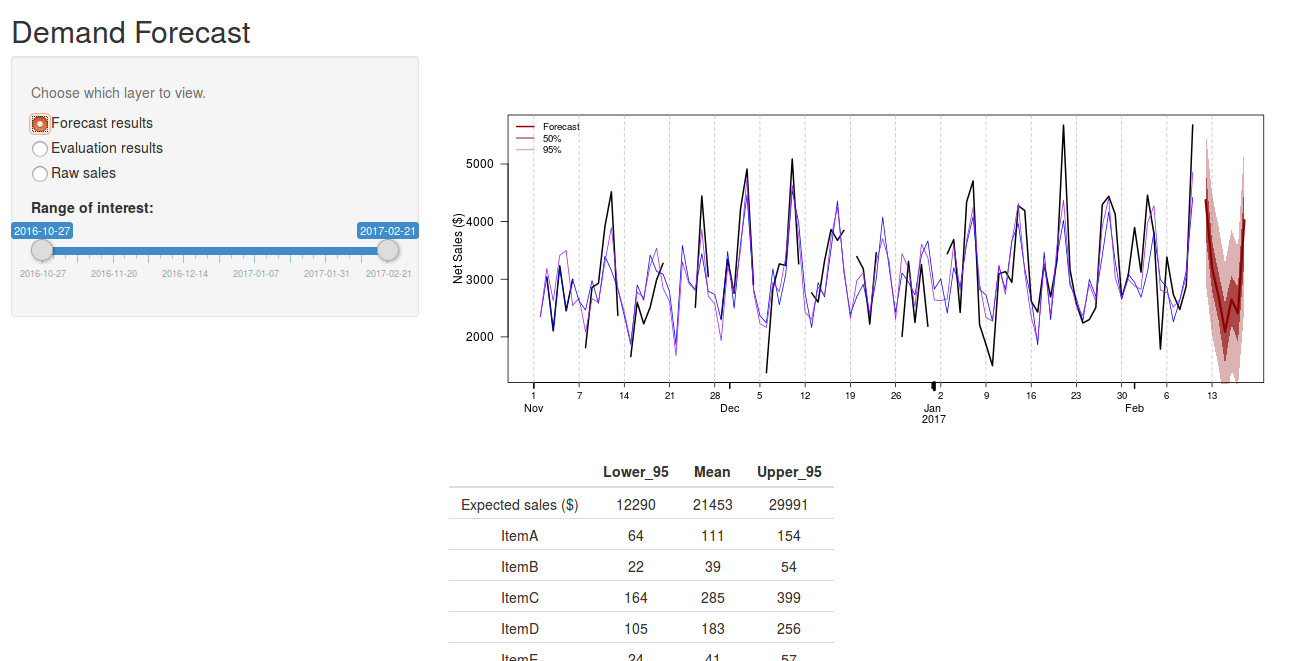
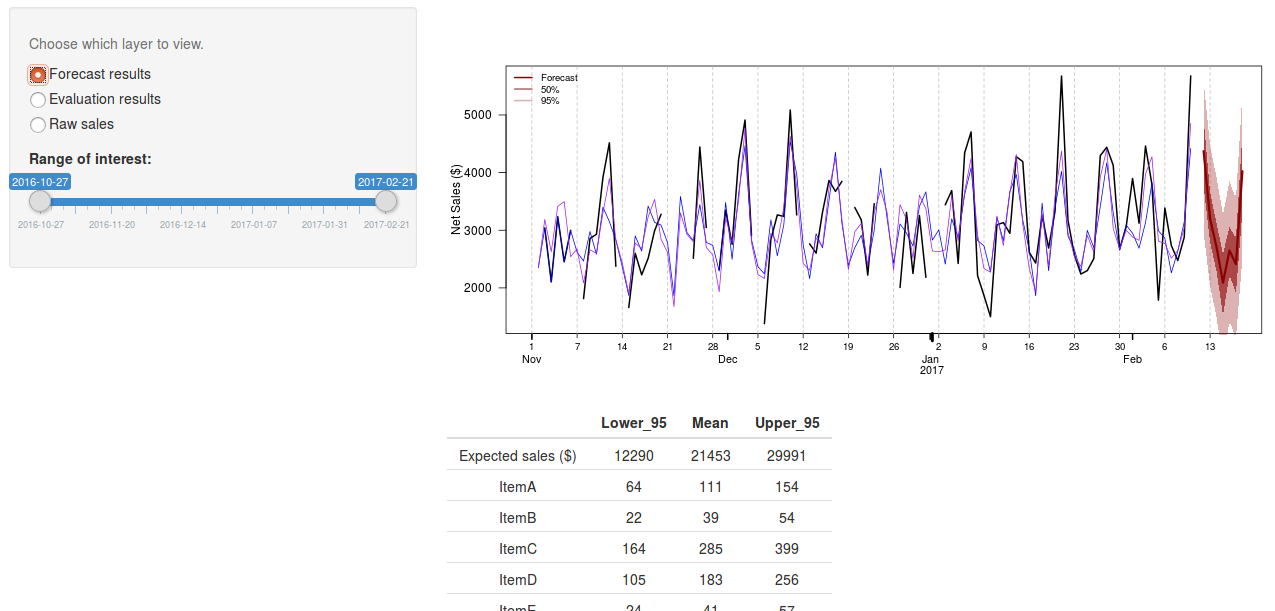
adjusted demo image and spacing

diff --git a/README.md b/README.md
@@ -3,7 +3,8 @@
 
 This app forecasts one week of sales ($ and #) for goods/services of interest. Predictions are generated dynamically from a pool of temperature, weather, economic, and local event data, as well as periodic fixed factors that can account for unknown payday patterns and other "anonymous" drivers of demand. Predictions are also informed by past trends, including magnitude and variability of demand. The prediction engine is comprised of two time-series models, ARIMA and STLM, working as an ensemble.
 
-[Click here for app demo.](https://vlahm.shinyapps.io/demand_forecast/)
+#### [Click here for app demo.](https://vlahm.shinyapps.io/demand_forecast/)
+
 ![demo](demo_image.png)
 
 ---
